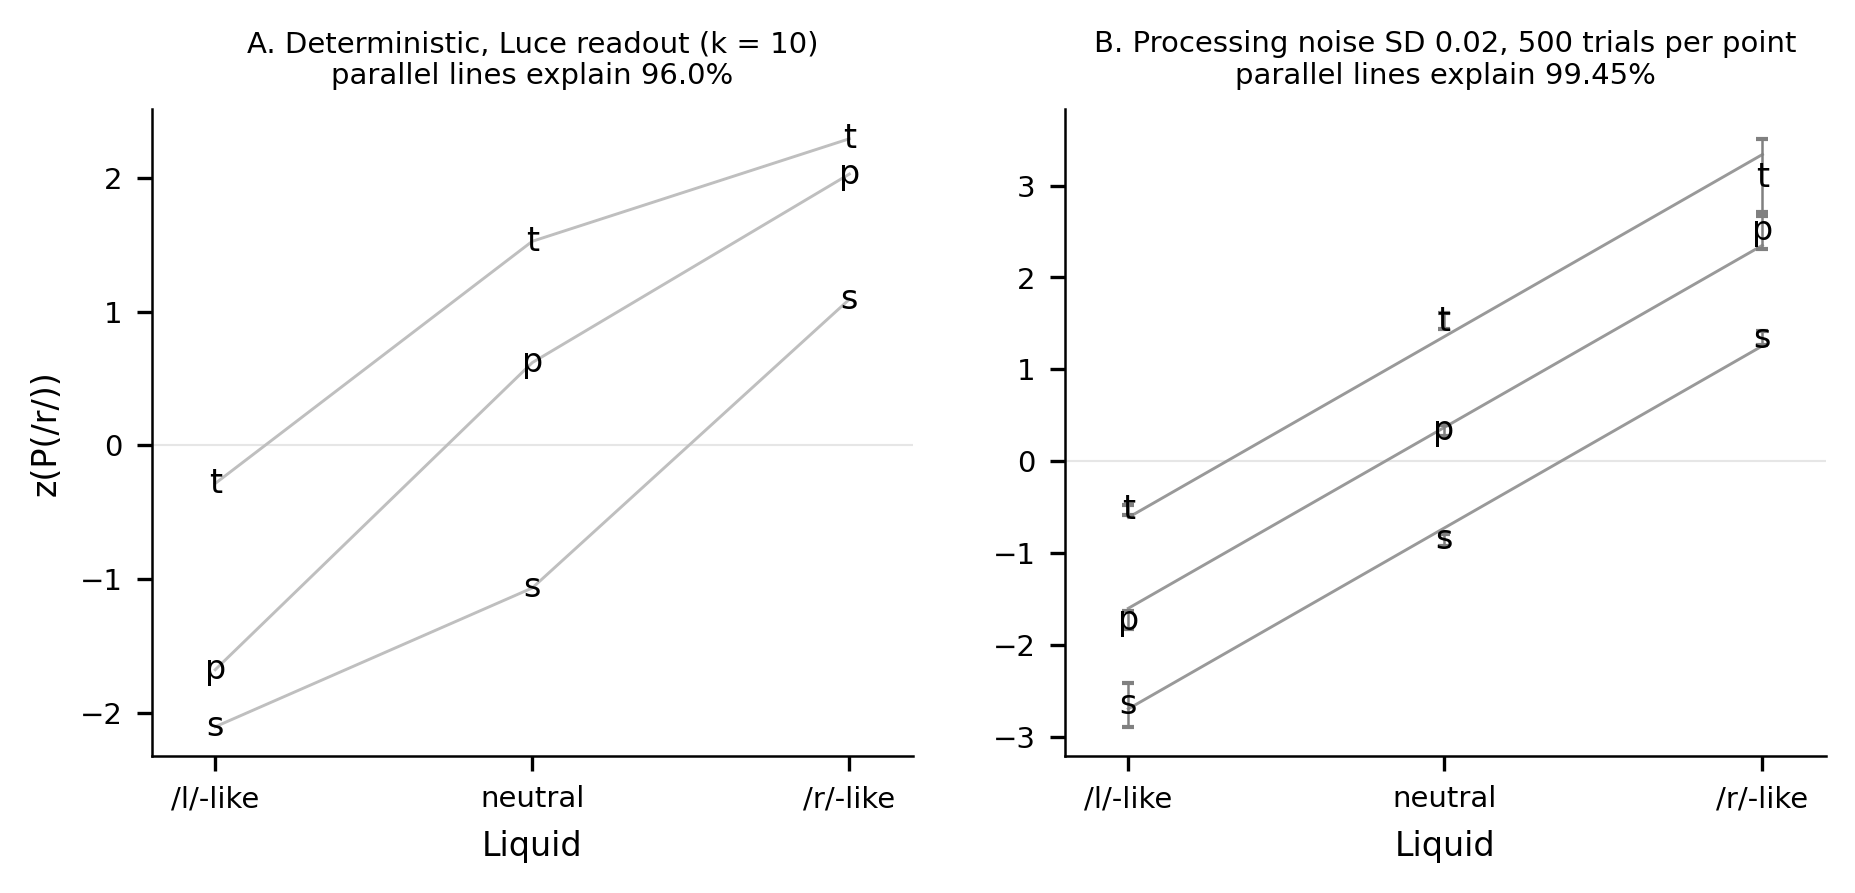
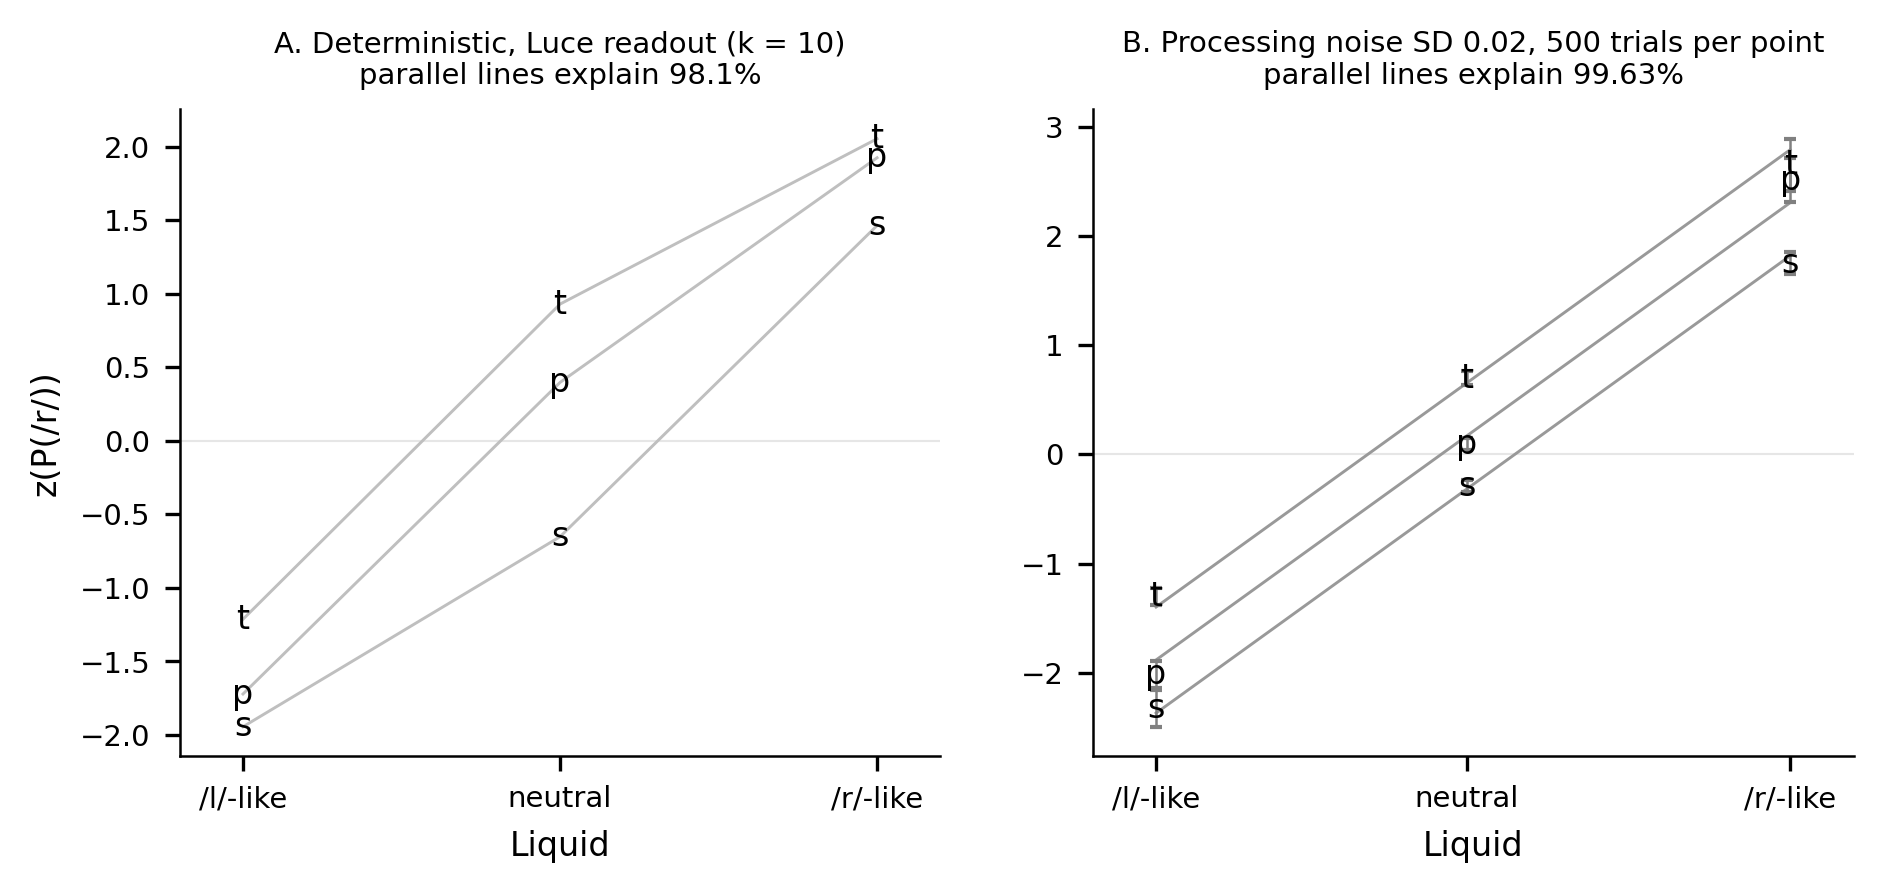
examples: use McClelland's code gains in the stochastic TRACE replication

diff --git a/examples/mcclelland-1991/04-stochastic-trace/simulate.js b/examples/mcclelland-1991/04-stochastic-trace/simulate.js
@@ -17,7 +17,7 @@
 //            their average (a choice made here; the paper doesn't say).
 //   changes to the M&E parameters (pp. 23-25): feature spread 3 on every
 //            dimension (so phonemes don't overlap), word resting level -0.1,
-//            phoneme-to-word excitation 0.05, word-to-phoneme excitation 0.02,
+//            phoneme-to-word and word-to-phoneme excitation (GAINS, below),
 //            feature decay 0.02, and processing noise SD 0.02 (stochasticitySD)
 //   response: running averages (lambda 0.05) of the /l/ and /r/ units at slice
 //            24 (slot 8); the larger one at cycle 90 is the response
@@ -29,9 +29,15 @@
 //   trials.csv         one row per noisy trial: final running averages and response
 //   deterministic.csv  final running averages for the 9 conditions without noise
 //
-// Run:  WORKERS=8 node simulate.js [outputDir]   (4,500 trials; ~18 min on one
-//       worker, ~3 min on 8). Keep WORKERS at or below ~70% of physical cores.
+// Run:  WORKERS=8 node simulate.js [outputDir]   (4,500 trials; ~16 min on one
+//       worker, ~2 min on 8). Keep WORKERS at or below ~70% of physical cores.
 //       TRIALS=100 node simulate.js                (fewer trials per condition)
+//       GAINS=paper node simulate.js               (the paper's printed gains, below)
+//
+// GAINS selects the phoneme-word gains: 'code' (default) uses alpha.PW 0.03 and
+// alpha.WP 0.015, the values in McClelland's own code; 'paper' uses the 0.05
+// and 0.02 printed in the paper, which give larger lexical effects (Strauss, Harris & Magnuson, 2007, footnote 7; also
+// jTRACE's replication file, extra/mcclellend-1991.jt).
 
 const os = require('os');
 const path = require('path');
@@ -51,6 +57,9 @@ const ACUTENESS = {
 };
 const TRIALS = isSmoke() ? 3 : Number(process.env.TRIALS) || 500;
 const SEED = 1991;
+const GAINS = { paper: { PW: 0.05, WP: 0.02 }, code: { PW: 0.03, WP: 0.015 } };
+const GAIN_SET = process.env.GAINS || 'code';
+if (!GAINS[GAIN_SET]) throw new Error(`GAINS must be one of: ${Object.keys(GAINS).join(', ')}`);
 const DIF = 2; // feature dimensions: diffuseness ...
 const ACU = 3; // ... and acuteness
 
@@ -73,7 +82,7 @@ const makeConfig = (context, target, noiseSD, seed) => {
   const config = createDefaultConfig();
   config.spread = Array(config.continuaPerFeature).fill(3);
   config.rest = { ...config.rest, W: -0.1 };
-  config.alpha = { ...config.alpha, PW: 0.05, WP: 0.02 };
+  config.alpha = { ...config.alpha, ...GAINS[GAIN_SET] };
   config.decay = { ...config.decay, F: 0.02 };
   config.stochasticitySD = noiseSD;
   config.seed = seed;
@@ -145,7 +154,8 @@ if (!isMainThread) {
       lambda: LAMBDA,
       acuteness: ACUTENESS,
       seed: SEED,
-      parameters: 'defaults, except spread 3 (all dimensions), rest.W -0.1, alpha.PW 0.05, alpha.WP 0.02, decay.F 0.02',
+      gains: GAIN_SET,
+      parameters: `defaults, except spread 3 (all dimensions), rest.W -0.1, alpha.PW ${GAINS[GAIN_SET].PW}, alpha.WP ${GAINS[GAIN_SET].WP}, decay.F 0.02`,
     });
   });
 }

diff --git a/examples/mcclelland-1991/04-stochastic-trace/README.md b/examples/mcclelland-1991/04-stochastic-trace/README.md
@@ -24,12 +24,19 @@ and 90 cycles per trial.
 - **Parameters.** The paper's changes to M&E's parameters:
   - feature spread 3 on every dimension, so the phonemes don't overlap;
   - word resting level −0.1;
-  - phoneme→word excitation 0.05 and word→phoneme excitation 0.02;
+  - phoneme→word excitation 0.03 and word→phoneme excitation 0.015 (see
+    below);
   - feature decay 0.02;
   - processing noise SD 0.02 (`stochasticitySD`, which adds noise to every
     unit's net input before each update, as the paper describes).
 - **Response.** Running averages (λ = 0.05) of the /l/ and /r/ units at slice
   24 (slot 8); the larger one at cycle 90 is the response.
+- **Gains.** The paper prints phoneme→word 0.05 and word→phoneme 0.02, but
+  McClelland's own code used 0.03 and 0.015. Strauss, Harris & Magnuson
+  (2007, footnote 7) report that the printed values give larger lexical effects
+  than the paper's, and jTRACE's replication file (`extra/mcclellend-1991.jt`)
+  uses the code's values. They are the default here; `GAINS=paper` runs the
+  printed ones.
 - **Seeds.** Each trial has its own seed, so the results don't depend on the
   number of workers.
 - **Deterministic comparison.** The 9 conditions are also run once without
@@ -42,12 +49,12 @@ The stimuli use `config.inputPhonemes`, so the engine must be built
 (`yarn workspace tstrace build`).
 
 ```
-WORKERS=8 node simulate.js   # 4,500 trials: ~14 min on 1 worker, ~2 min on 8
+WORKERS=8 node simulate.js   # 4,500 trials: ~16 min on 1 worker, ~2 min on 8
 python3 plot.py
 ```
 
 Keep `WORKERS` at or below about 70% of your physical cores. `TRIALS=100` runs
-fewer trials per condition.
+fewer trials per condition, and `GAINS=paper` uses the paper's printed gains.
 
 ## Figures
 
@@ -67,20 +74,36 @@ values are in `stats.txt`.
 
 | Context | /l/-like | neutral | /r/-like |
 |---|---|---|---|
-| s | 0.004 | 0.196 | 0.910 |
-| p | 0.042 | 0.630 | 0.994 |
-| t | 0.298 | 0.936 | 1.000 |
+| s | 0.010 | 0.386 | 0.960 |
+| p | 0.022 | 0.538 | 0.994 |
+| t | 0.096 | 0.758 | 0.996 |
 
-- **The classical pattern holds in full TRACE.** Parallel lines explain 99.45%
+Compared with the paper's Fig. 9 (values read off the figure, ±0.05 z):
+
+| | Paper | Here (code's gains) | Here (printed gains) |
+|---|---|---|---|
+| Variance explained by parallel lines | 99.94% | 99.63% | 99.45% |
+| Context effect, /t/ − /s/ (z) | ≈ 1.2 | 0.97 | 2.08 |
+| Liquid effect, /r/-like − /l/-like (z) | ≈ 3.2 | 4.19 | 3.95 |
+
+- **The classical pattern holds in full TRACE.** Parallel lines explain 99.63%
   of the variance in z (paper: 99.94%). The best spacing puts the neutral
-  liquid at 0.50, exactly midway between the /l/-like and /r/-like ones.
-- **The context effect is in the paper's order.** /t/ (favoring /r/ through
+  liquid at 0.49, almost exactly midway between the /l/-like and /r/-like ones.
+- **The context effect matches the paper's.** /t/ (favoring /r/ through
   *tree*) is above /p/, which is above /s/ (favoring /l/ through *sleep* and
-  *sleet*). The intercepts are −0.61, −1.60 and −2.70.
+  *sleet*), evenly spaced as in the paper. The intercepts are −1.40, −1.88
+  and −2.37. With the printed gains, the context effect is about twice the
+  paper's and unevenly spaced (−0.61, −1.60, −2.70), with one cell at ceiling.
 - **The deterministic original is distorted.** With the Luce readout and no
-  noise, parallel lines explain only 96.0%.
-- **The liquids are a little more discriminable than in the paper.** z runs
-  from −2.65 to 3.09 here, against about −1.5 to 2.2 in the paper's Fig. 9.
-  One cell (/t/, /r/-like) is at ceiling (500 of 500), so its z rests on the
-  clipping rule. The paper's liquids were presumably a little more confusable,
-  for reasons it doesn't record.
+  noise, parallel lines explain only 98.1%.
+- **The liquids are more discriminable than in the paper.** The liquid effect
+  is about 30% larger than the paper's, with either set of gains. The causes
+  checked and ruled out:
+  - the liquids' features, which follow M&E's Table 1 and footnote 4;
+  - the noise, which perturbs every unit's net input just before its update,
+    as the paper describes;
+  - the input timing (12 slices of silence on each side, target peaking at
+    slice 24).
+  The remaining difference is unexplained. jTRACE's replication was also only
+  moderately close (RMS error about 0.16, against about 0.08 between repeated
+  runs of McClelland's code).

diff --git a/examples/SUMMARY.md b/examples/SUMMARY.md
@@ -202,12 +202,17 @@ jTRACE gallery's inputs where they exist.
   - The noise is added after the 0.1 input scaling, the reading that reproduces
     the paper's probability range.
 - **04 stochastic TRACE.**
-  - With 500 trials per condition, parallel lines explain 99.45% of the
+  - With 500 trials per condition, parallel lines explain 99.63% of the
     variance (paper: 99.94%).
-  - The fitted spacing puts the neutral liquid exactly midway, and the contexts
-    are in the paper's order. The deterministic Luce version explains 96.0%.
-  - The liquids are somewhat more discriminable than the paper's (z from −2.65
-    to 3.09 vs about −1.5 to 2.2), and one cell is at ceiling.
+  - It uses the phoneme–word gains of McClelland's code (0.03, 0.015), not the
+    paper's printed 0.05 and 0.02 (Strauss et al., 2007, footnote 7). With
+    them the context effect matches the paper's (about 1.0 z unit vs 1.2),
+    evenly spaced; the printed gains double it.
+  - The fitted spacing puts the neutral liquid midway, and the contexts are in
+    the paper's order. The deterministic Luce version explains 98.1%.
+  - The liquid effect is about 30% larger than the paper's (4.2 vs about
+    3.2 z units). The features, noise and timing were checked against the
+    paper; the cause is unexplained.
   - The liquids follow footnote 4. The neutral liquid's diffuseness, which the
     paper doesn't give, is the average of /r/ and /l/.
 
